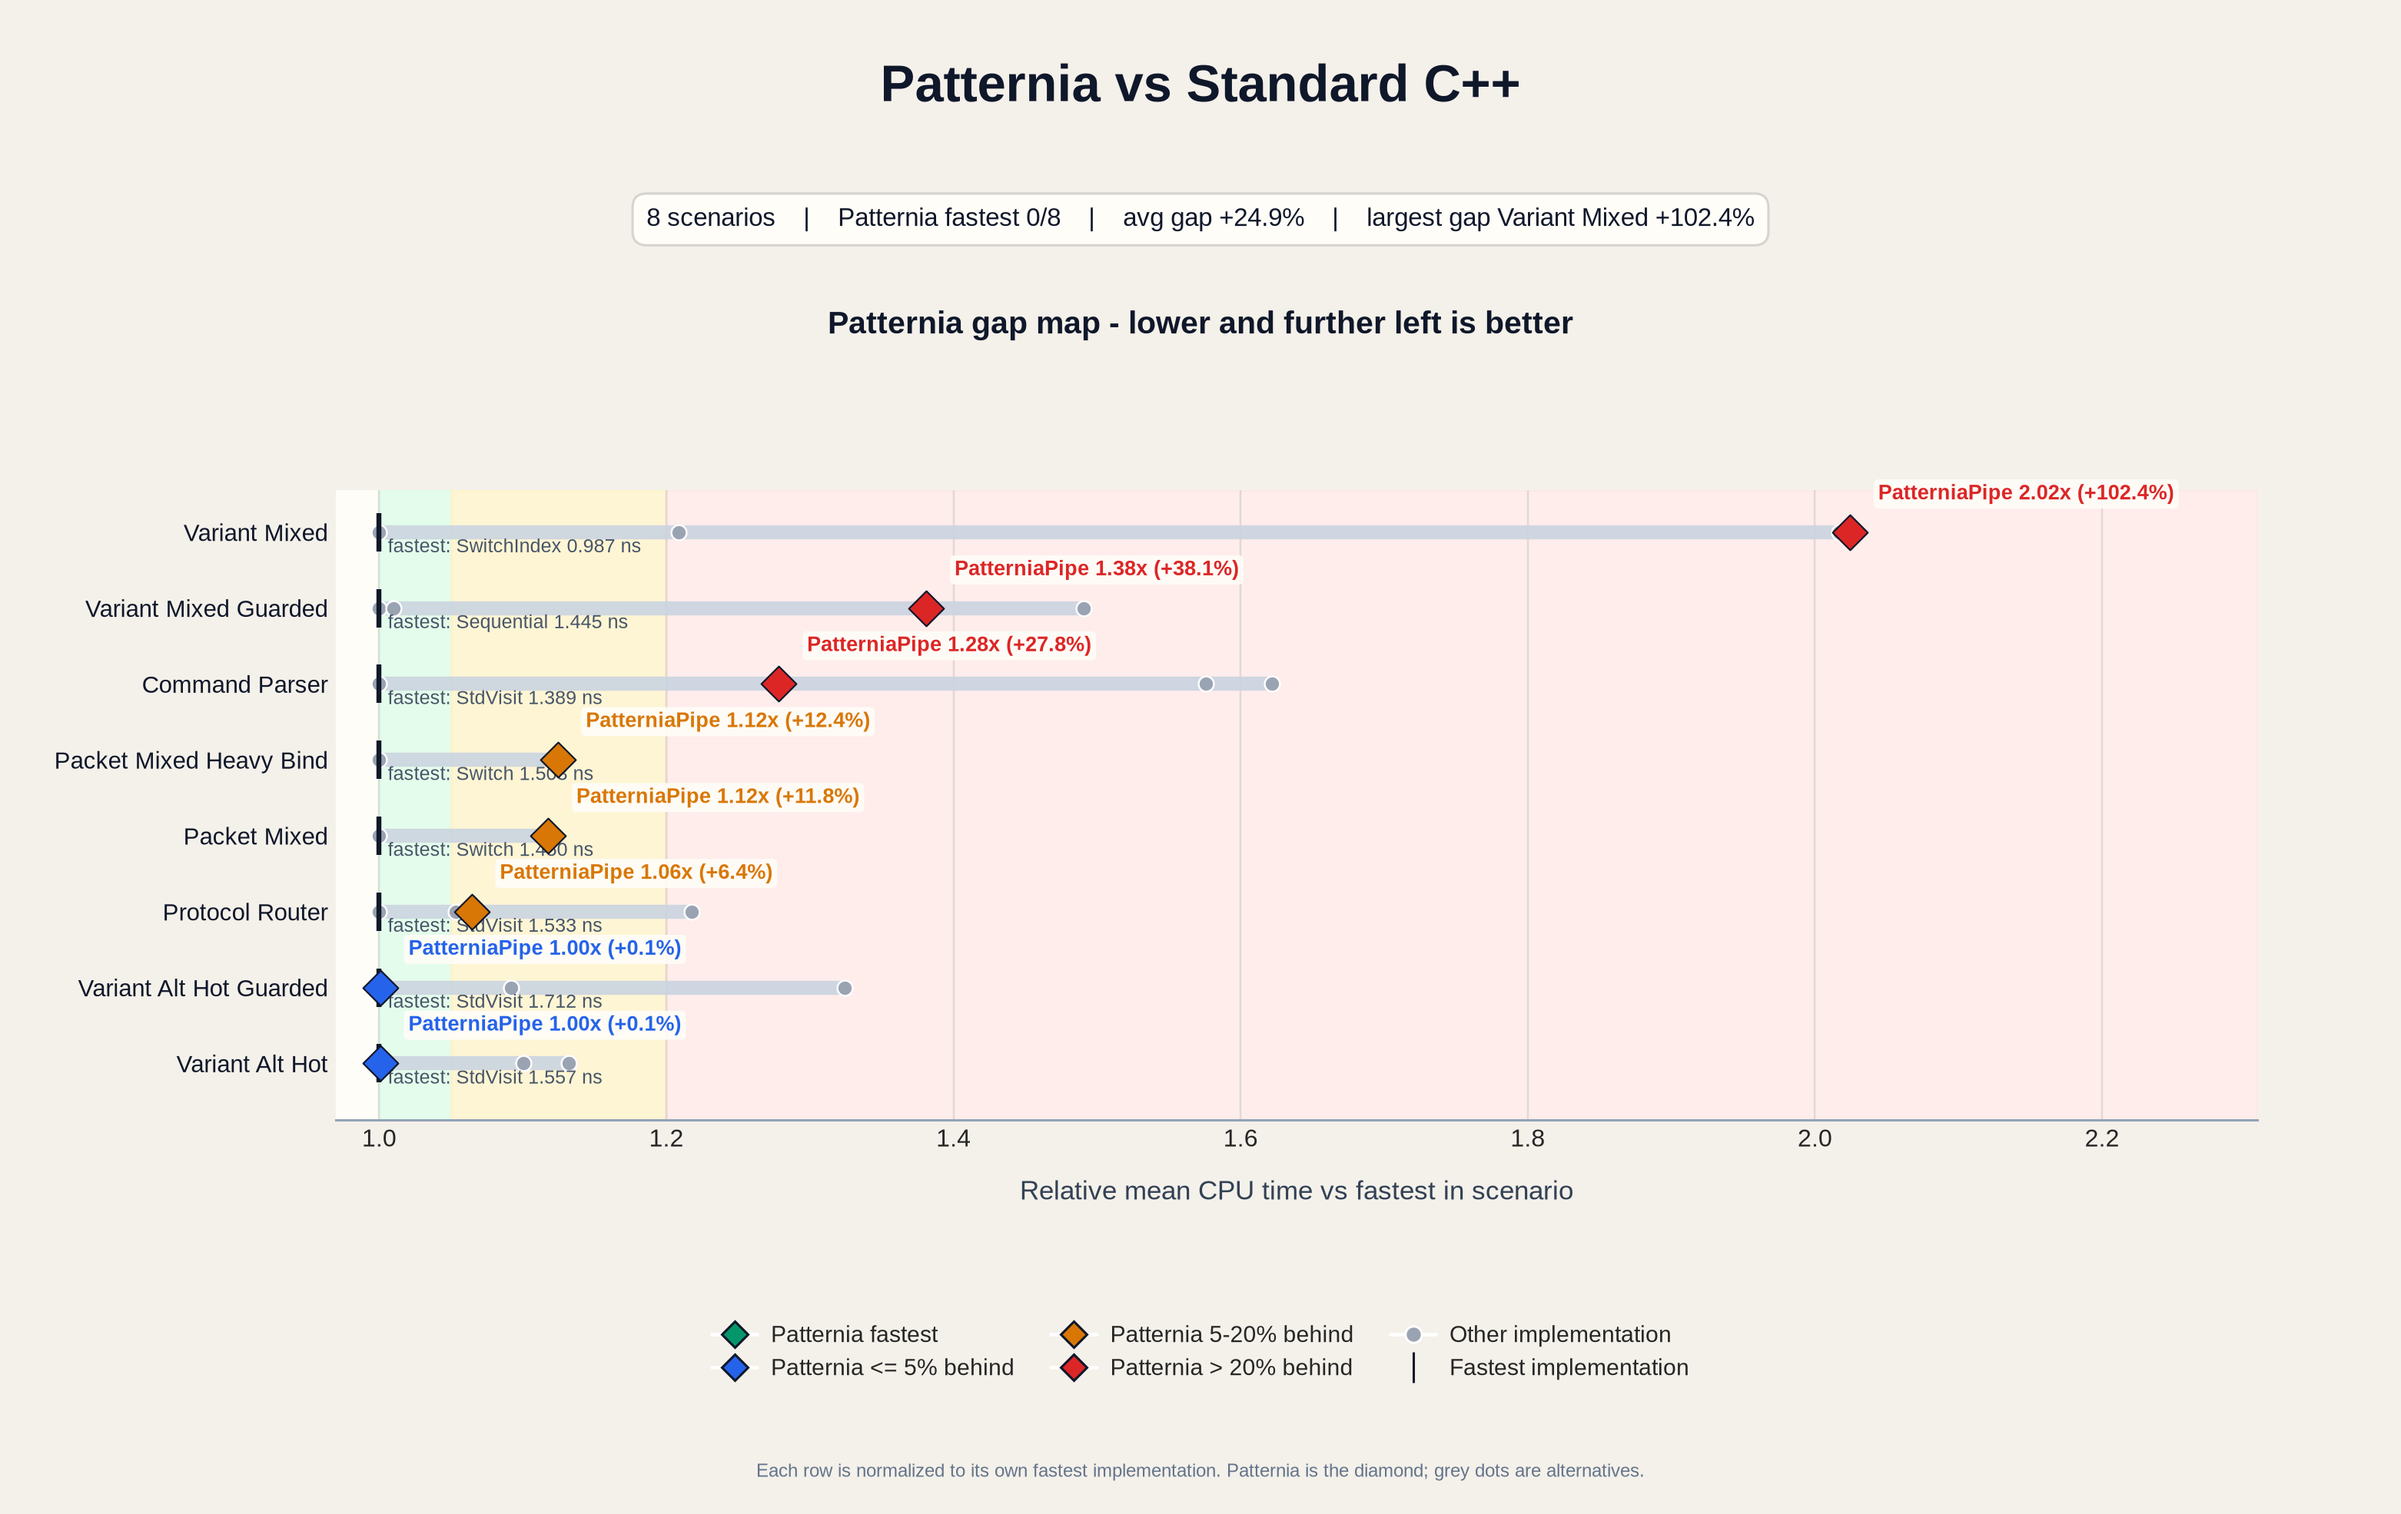
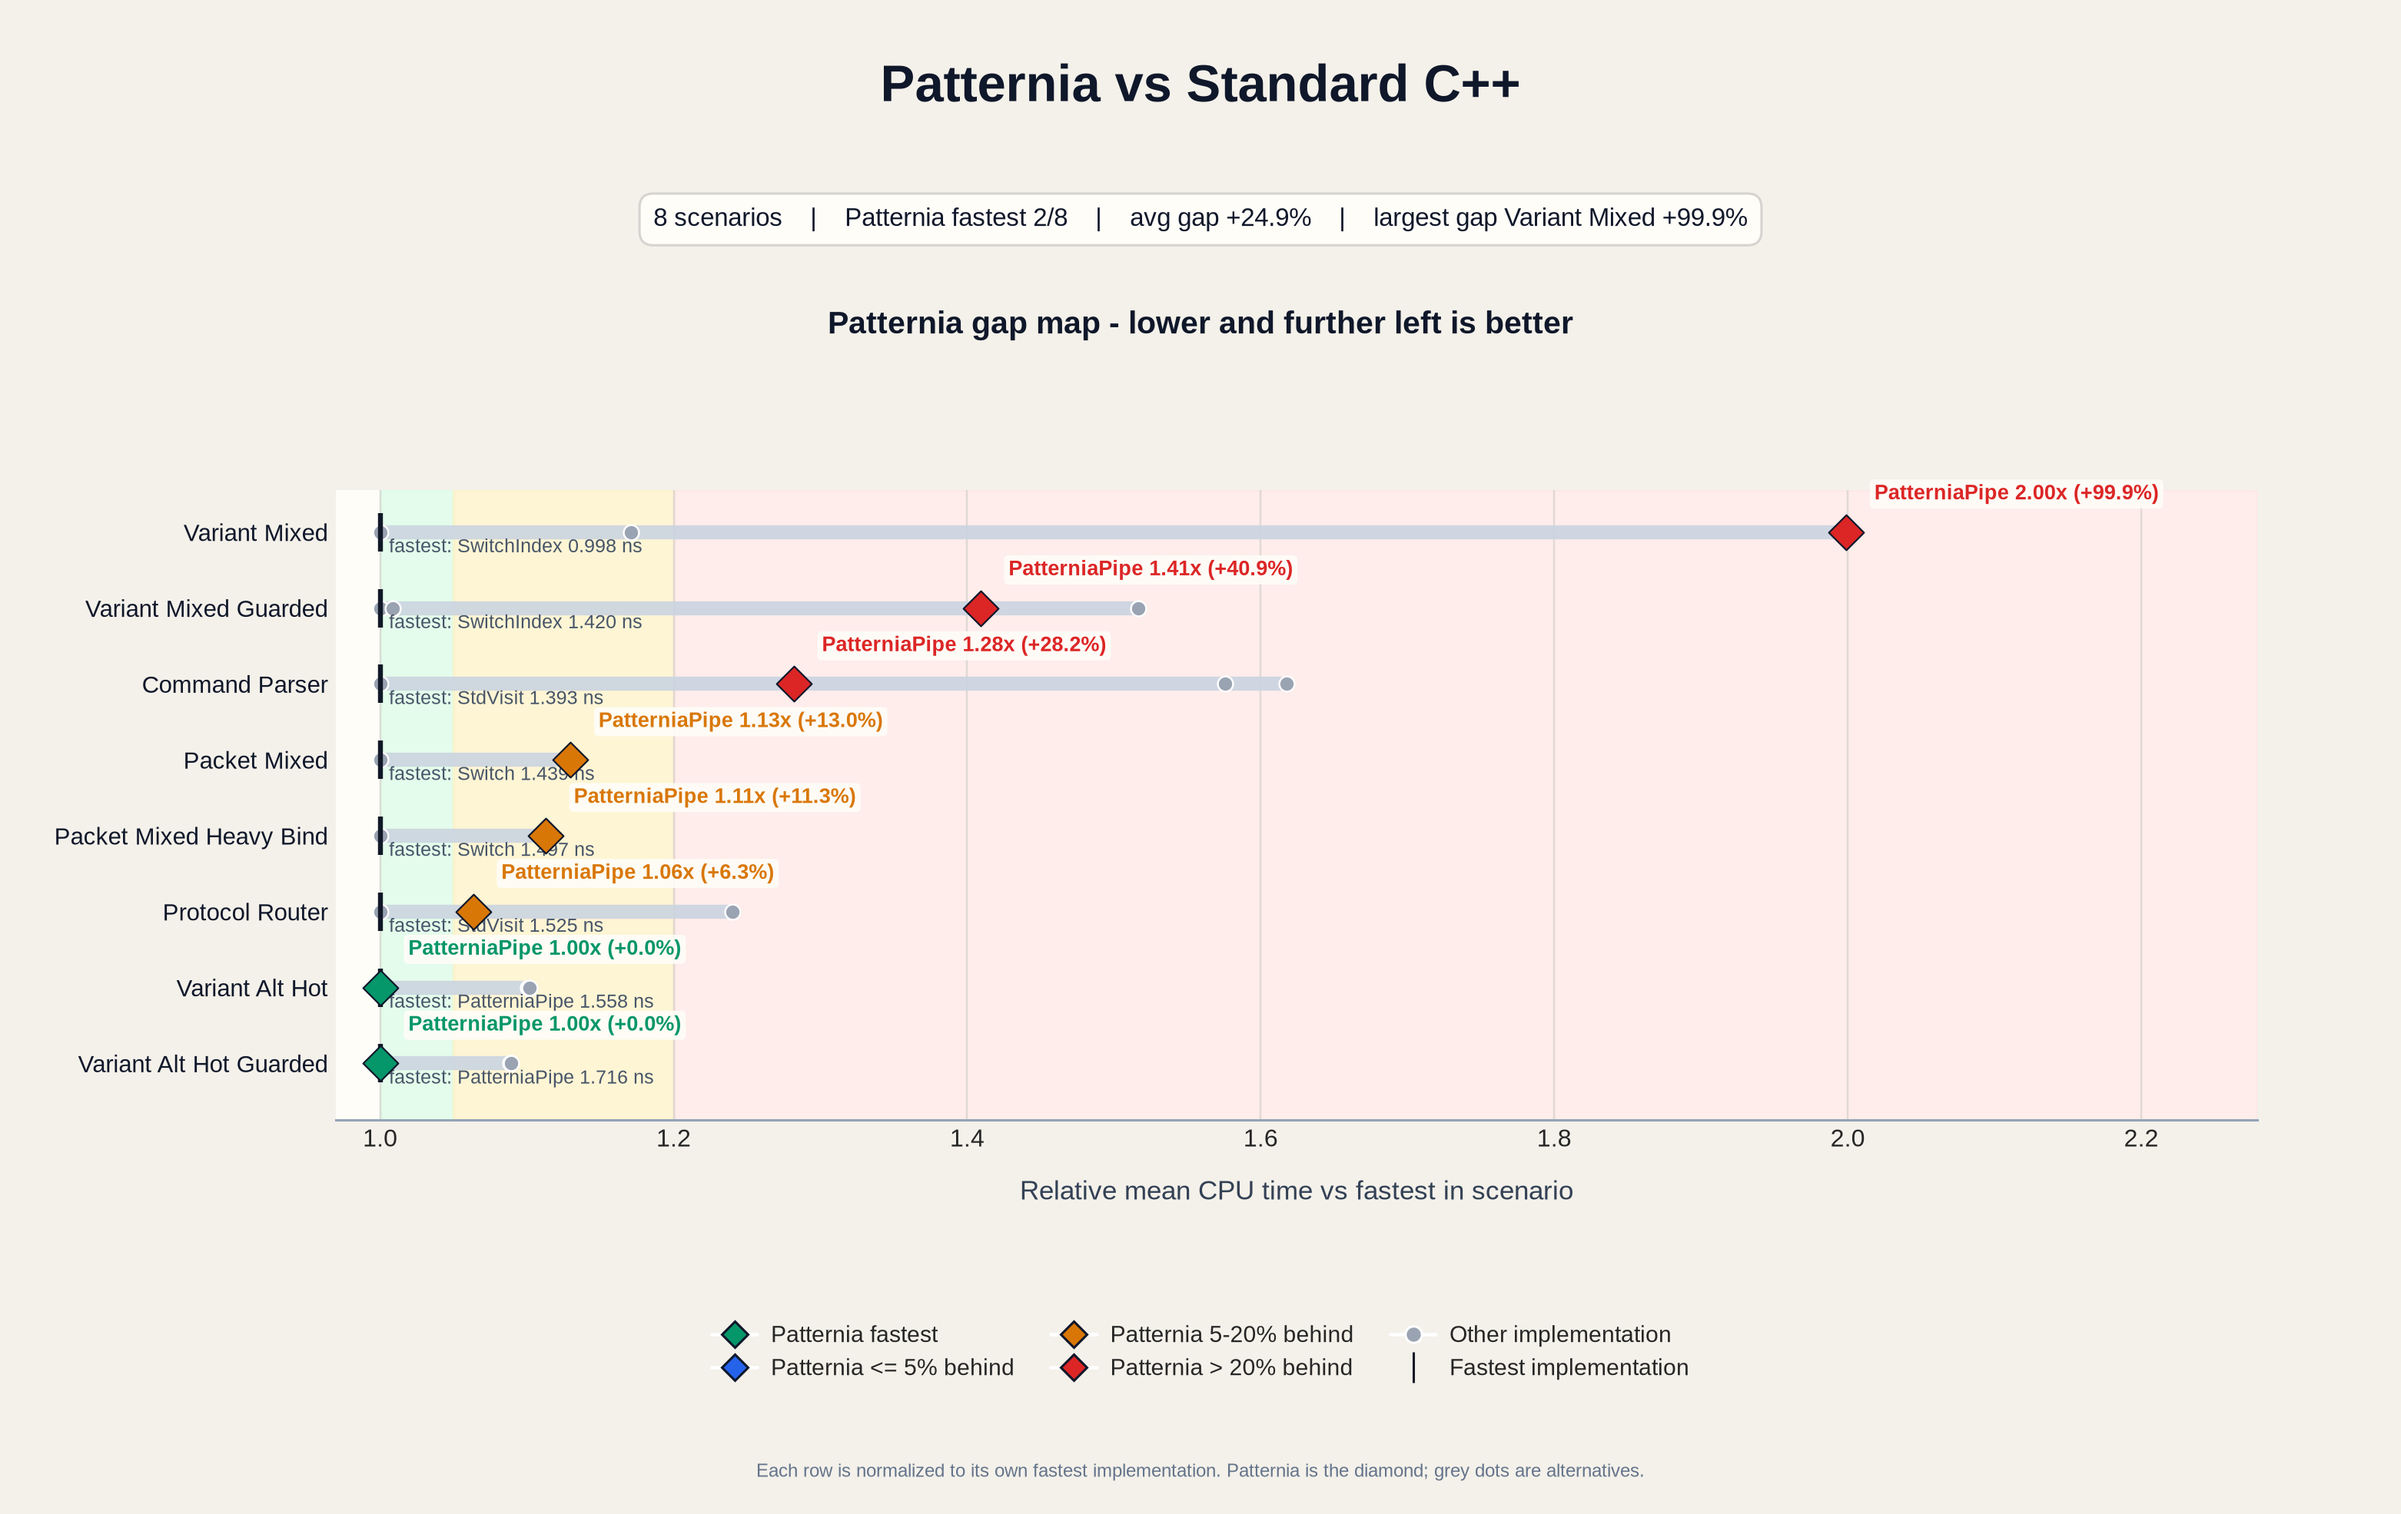
ci: update benchmark summary chart

diff --git a/docs/assets/bench/latest.md b/docs/assets/bench/latest.md
@@ -2,22 +2,22 @@
 
 - Source: `bench_results/ptn_bench.json`
 - Scenarios: `8`
-- Patternia fastest: `0/8`
-- Average Patternia gap vs fastest: `+24.90%`
-- Largest Patternia gap: `VariantMixed` `+102.44%` vs `SwitchIndex`
+- Patternia fastest: `2/8`
+- Average Patternia gap vs fastest: `+24.94%`
+- Largest Patternia gap: `VariantMixed` `+99.90%` vs `SwitchIndex`
 
 ## Patternia Focus
 
 | Scenario | Patternia impl | Rank | Patternia mean (ns) | Fastest | Fastest mean (ns) | Gap vs fastest | Patternia CV % | Status |
 |---|---:|---:|---:|---:|---:|---:|---:|---:|
-| VariantMixed | PatterniaPipe | 4/4 | 1.998 | SwitchIndex | 0.987 | +102.44% | 0.50 | slow |
-| VariantMixedGuarded | PatterniaPipe | 3/4 | 1.995 | Sequential | 1.445 | +38.11% | 0.05 | slow |
-| CommandParser | PatterniaPipe | 2/4 | 1.776 | StdVisit | 1.389 | +27.84% | 0.39 | slow |
-| PacketMixedHeavyBind | PatterniaPipe | 2/2 | 1.690 | Switch | 1.503 | +12.43% | 0.55 | watch |
-| PacketMixed | PatterniaPipe | 2/2 | 1.621 | Switch | 1.450 | +11.77% | 0.26 | watch |
-| ProtocolRouter | PatterniaPipe | 3/4 | 1.632 | StdVisit | 1.533 | +6.44% | 1.19 | watch |
-| VariantAltHotGuarded | PatterniaPipe | 2/4 | 1.713 | StdVisit | 1.712 | +0.08% | 0.26 | close |
-| VariantAltHot | PatterniaPipe | 2/4 | 1.558 | StdVisit | 1.557 | +0.07% | 0.54 | close |
+| VariantMixed | PatterniaPipe | 4/4 | 1.996 | SwitchIndex | 0.998 | +99.90% | 0.18 | slow |
+| VariantMixedGuarded | PatterniaPipe | 3/4 | 2.001 | SwitchIndex | 1.420 | +40.90% | 0.50 | slow |
+| CommandParser | PatterniaPipe | 2/4 | 1.785 | StdVisit | 1.393 | +28.18% | 1.26 | slow |
+| PacketMixed | PatterniaPipe | 2/2 | 1.625 | Switch | 1.439 | +12.96% | 0.77 | watch |
+| PacketMixedHeavyBind | PatterniaPipe | 2/2 | 1.666 | Switch | 1.497 | +11.28% | 0.27 | watch |
+| ProtocolRouter | PatterniaPipe | 2/4 | 1.622 | StdVisit | 1.525 | +6.33% | 0.90 | watch |
+| VariantAltHot | PatterniaPipe | 1/4 | 1.558 | PatterniaPipe | 1.558 | +0.00% | 0.32 | fastest |
+| VariantAltHotGuarded | PatterniaPipe | 1/4 | 1.716 | PatterniaPipe | 1.716 | +0.00% | 0.58 | fastest |
 
 ---
 
@@ -26,67 +26,67 @@
 
 | Impl | Mean (ns) | vs fastest | vs Patternia | CV % |
 |---|---:|---:|---:|---:|
-| SwitchIndex | 0.987 | fastest | -50.60% | 5.98 |
-| Sequential | 1.193 | +20.86% | -40.30% | 0.66 |
-| StdVisit | 1.991 | +101.68% | -0.37% | 0.15 |
-| **PatterniaPipe** | 1.998 | +102.44% | - | 0.50 |
+| SwitchIndex | 0.998 | fastest | -49.97% | 4.84 |
+| Sequential | 1.169 | +17.08% | -41.43% | 0.49 |
+| StdVisit | 1.993 | +99.58% | -0.16% | 0.21 |
+| **PatterniaPipe** | 1.996 | +99.90% | - | 0.18 |
 
 ### VariantMixedGuarded
 
 | Impl | Mean (ns) | vs fastest | vs Patternia | CV % |
 |---|---:|---:|---:|---:|
-| Sequential | 1.445 | fastest | -27.60% | 0.38 |
-| SwitchIndex | 1.459 | +1.01% | -26.87% | 2.19 |
-| **PatterniaPipe** | 1.995 | +38.11% | - | 0.05 |
-| StdVisit | 2.154 | +49.08% | +7.94% | 0.34 |
+| SwitchIndex | 1.420 | fastest | -29.03% | 0.97 |
+| Sequential | 1.432 | +0.88% | -28.41% | 0.74 |
+| **PatterniaPipe** | 2.001 | +40.90% | - | 0.50 |
+| StdVisit | 2.154 | +51.68% | +7.65% | 0.31 |
 
 ### CommandParser
 
 | Impl | Mean (ns) | vs fastest | vs Patternia | CV % |
 |---|---:|---:|---:|---:|
-| StdVisit | 1.389 | fastest | -21.78% | 0.65 |
-| **PatterniaPipe** | 1.776 | +27.84% | - | 0.39 |
-| IfElse | 2.189 | +57.58% | +23.27% | 1.56 |
-| Switch | 2.253 | +62.17% | +26.86% | 0.52 |
-
-### PacketMixedHeavyBind
-
-| Impl | Mean (ns) | vs fastest | vs Patternia | CV % |
-|---|---:|---:|---:|---:|
-| Switch | 1.503 | fastest | -11.06% | 1.29 |
-| **PatterniaPipe** | 1.690 | +12.43% | - | 0.55 |
+| StdVisit | 1.393 | fastest | -21.99% | 0.44 |
+| **PatterniaPipe** | 1.785 | +28.18% | - | 1.26 |
+| IfElse | 2.194 | +57.56% | +22.92% | 1.50 |
+| Switch | 2.253 | +61.76% | +26.19% | 0.45 |
 
 ### PacketMixed
 
 | Impl | Mean (ns) | vs fastest | vs Patternia | CV % |
 |---|---:|---:|---:|---:|
-| Switch | 1.450 | fastest | -10.53% | 1.52 |
-| **PatterniaPipe** | 1.621 | +11.77% | - | 0.26 |
+| Switch | 1.439 | fastest | -11.47% | 1.80 |
+| **PatterniaPipe** | 1.625 | +12.96% | - | 0.77 |
+
+### PacketMixedHeavyBind
+
+| Impl | Mean (ns) | vs fastest | vs Patternia | CV % |
+|---|---:|---:|---:|---:|
+| Switch | 1.497 | fastest | -10.14% | 0.21 |
+| **PatterniaPipe** | 1.666 | +11.28% | - | 0.27 |
 
 ### ProtocolRouter
 
 | Impl | Mean (ns) | vs fastest | vs Patternia | CV % |
 |---|---:|---:|---:|---:|
-| StdVisit | 1.533 | fastest | -6.05% | 0.52 |
-| Switch | 1.615 | +5.31% | -1.06% | 1.17 |
-| **PatterniaPipe** | 1.632 | +6.44% | - | 1.19 |
-| IfElse | 1.867 | +21.75% | +14.39% | 0.21 |
-
-### VariantAltHotGuarded
-
-| Impl | Mean (ns) | vs fastest | vs Patternia | CV % |
-|---|---:|---:|---:|---:|
-| StdVisit | 1.712 | fastest | -0.08% | 0.03 |
-| **PatterniaPipe** | 1.713 | +0.08% | - | 0.26 |
-| Sequential | 1.869 | +9.19% | +9.10% | 0.27 |
-| SwitchIndex | 2.267 | +32.44% | +32.33% | 6.91 |
+| StdVisit | 1.525 | fastest | -5.96% | 0.87 |
+| **PatterniaPipe** | 1.622 | +6.33% | - | 0.90 |
+| Switch | 1.625 | +6.51% | +0.17% | 1.13 |
+| IfElse | 1.891 | +24.00% | +16.61% | 1.81 |
 
 ### VariantAltHot
 
 | Impl | Mean (ns) | vs fastest | vs Patternia | CV % |
 |---|---:|---:|---:|---:|
-| StdVisit | 1.557 | fastest | -0.07% | 0.16 |
-| **PatterniaPipe** | 1.558 | +0.07% | - | 0.54 |
-| Sequential | 1.713 | +10.03% | +9.95% | 0.29 |
-| SwitchIndex | 1.763 | +13.19% | +13.11% | 8.14 |
+| **PatterniaPipe** | 1.558 | fastest | - | 0.32 |
+| StdVisit | 1.558 | +0.05% | +0.05% | 0.33 |
+| Sequential | 1.715 | +10.10% | +10.10% | 0.37 |
+| SwitchIndex | 1.717 | +10.20% | +10.20% | 0.57 |
+
+### VariantAltHotGuarded
+
+| Impl | Mean (ns) | vs fastest | vs Patternia | CV % |
+|---|---:|---:|---:|---:|
+| **PatterniaPipe** | 1.716 | fastest | - | 0.58 |
+| StdVisit | 1.717 | +0.05% | +0.05% | 0.83 |
+| SwitchIndex | 1.869 | +8.86% | +8.86% | 0.09 |
+| Sequential | 1.870 | +8.95% | +8.95% | 0.25 |
 

diff --git a/docs/assets/bench/scale.md b/docs/assets/bench/scale.md
@@ -3,17 +3,17 @@
 - Source: `bench_results/ptn_bench_scale.json`
 - Scenarios: `4`
 - Patternia fastest: `0/4`
-- Average Patternia gap vs fastest: `+87.65%`
-- Largest Patternia gap: `ScaleN32` `+135.88%` vs `SwitchIndex`
+- Average Patternia gap vs fastest: `+87.69%`
+- Largest Patternia gap: `ScaleN32` `+137.27%` vs `SwitchIndex`
 
 ## Patternia Focus
 
 | Scenario | Patternia impl | Rank | Patternia mean (ns) | Fastest | Fastest mean (ns) | Gap vs fastest | Patternia CV % | Status |
 |---|---:|---:|---:|---:|---:|---:|---:|---:|
-| ScaleN32 | PatterniaPipe | 2/3 | 2.146 | SwitchIndex | 0.910 | +135.88% | 0.43 | slow |
-| ScaleN8 | PatterniaPipe | 3/3 | 1.550 | StdVisit | 0.824 | +87.97% | 0.36 | slow |
-| ScaleN16 | PatterniaPipe | 2/3 | 1.660 | SwitchIndex | 0.948 | +75.20% | 0.19 | slow |
-| ScaleN4 | PatterniaPipe | 3/3 | 1.355 | SwitchIndex | 0.894 | +51.54% | 0.84 | slow |
+| ScaleN32 | PatterniaPipe | 2/3 | 2.144 | SwitchIndex | 0.903 | +137.27% | 0.75 | slow |
+| ScaleN8 | PatterniaPipe | 3/3 | 1.545 | StdVisit | 0.829 | +86.41% | 0.30 | slow |
+| ScaleN16 | PatterniaPipe | 2/3 | 1.659 | SwitchIndex | 0.935 | +77.51% | 0.32 | slow |
+| ScaleN4 | PatterniaPipe | 3/3 | 1.344 | SwitchIndex | 0.898 | +49.57% | 1.10 | slow |
 
 ---
 
@@ -22,31 +22,31 @@
 
 | Impl | Mean (ns) | vs fastest | vs Patternia | CV % |
 |---|---:|---:|---:|---:|
-| SwitchIndex | 0.910 | fastest | -57.61% | 0.61 |
-| **PatterniaPipe** | 2.146 | +135.88% | - | 0.43 |
-| StdVisit | 8.135 | +794.41% | +279.18% | 3.11 |
+| SwitchIndex | 0.903 | fastest | -57.85% | 0.21 |
+| **PatterniaPipe** | 2.144 | +137.27% | - | 0.75 |
+| StdVisit | 7.643 | +745.99% | +256.56% | 1.64 |
 
 ### ScaleN8
 
 | Impl | Mean (ns) | vs fastest | vs Patternia | CV % |
 |---|---:|---:|---:|---:|
-| StdVisit | 0.824 | fastest | -46.80% | 0.19 |
-| SwitchIndex | 0.894 | +8.46% | -42.30% | 4.48 |
-| **PatterniaPipe** | 1.550 | +87.97% | - | 0.36 |
+| StdVisit | 0.829 | fastest | -46.36% | 1.40 |
+| SwitchIndex | 0.887 | +7.04% | -42.58% | 5.42 |
+| **PatterniaPipe** | 1.545 | +86.41% | - | 0.30 |
 
 ### ScaleN16
 
 | Impl | Mean (ns) | vs fastest | vs Patternia | CV % |
 |---|---:|---:|---:|---:|
-| SwitchIndex | 0.948 | fastest | -42.92% | 1.04 |
-| **PatterniaPipe** | 1.660 | +75.20% | - | 0.19 |
-| StdVisit | 5.647 | +495.97% | +240.17% | 1.30 |
+| SwitchIndex | 0.935 | fastest | -43.67% | 1.81 |
+| **PatterniaPipe** | 1.659 | +77.51% | - | 0.32 |
+| StdVisit | 3.638 | +289.14% | +119.22% | 41.91 |
 
 ### ScaleN4
 
 | Impl | Mean (ns) | vs fastest | vs Patternia | CV % |
 |---|---:|---:|---:|---:|
-| SwitchIndex | 0.894 | fastest | -34.01% | 0.10 |
-| StdVisit | 0.934 | +4.42% | -31.09% | 0.09 |
-| **PatterniaPipe** | 1.355 | +51.54% | - | 0.84 |
+| SwitchIndex | 0.898 | fastest | -33.14% | 0.62 |
+| StdVisit | 0.938 | +4.45% | -30.16% | 0.90 |
+| **PatterniaPipe** | 1.344 | +49.57% | - | 1.10 |
 
